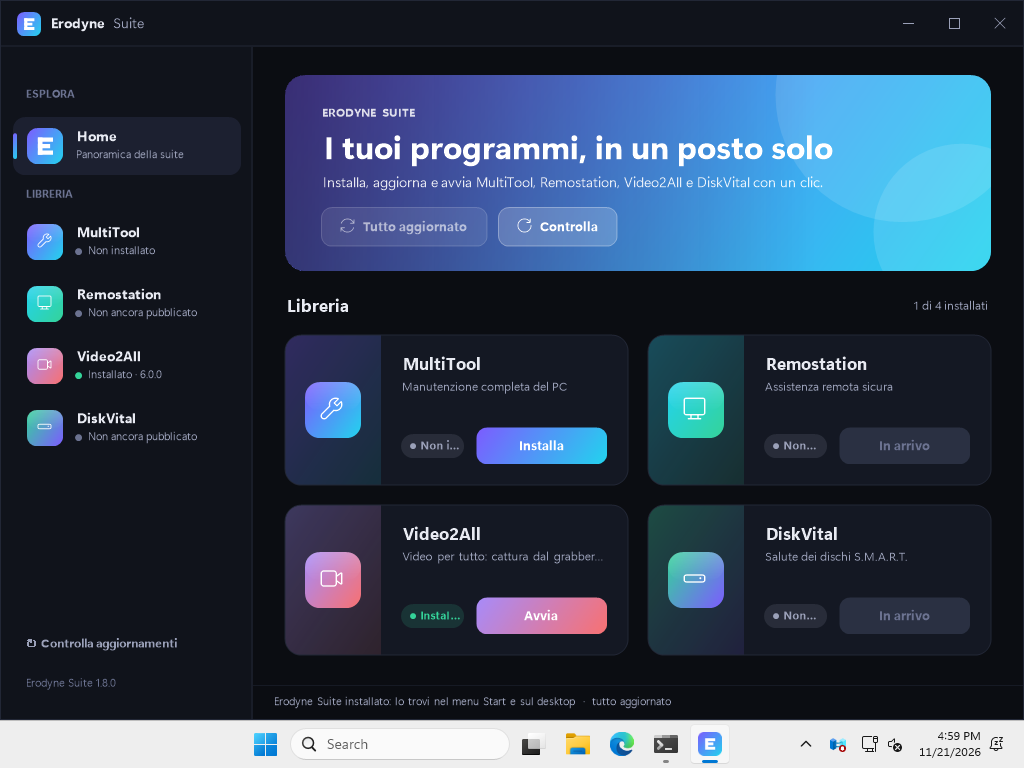
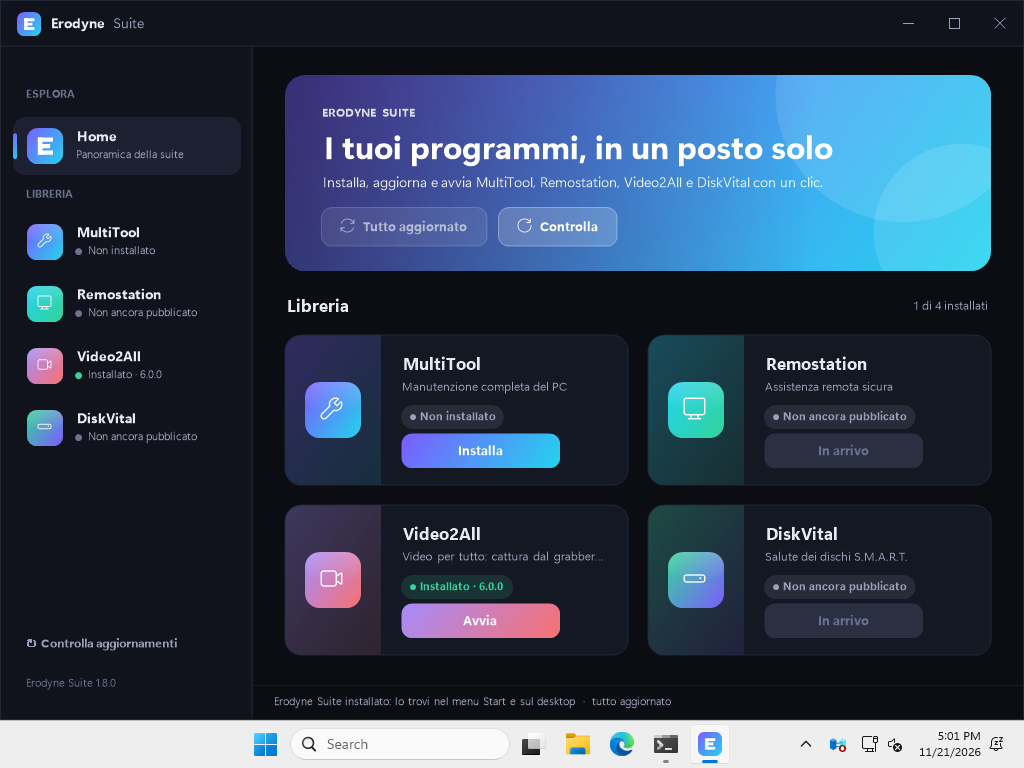
Test installazione Video2All e DiskVital

diff --git a/T.cs b/T.cs
@@ -1,45 +1,24 @@
-using System; using System.IO; using System.Linq; using System.Reflection; using System.Security.AccessControl;
+using System; using System.Linq;
 public static class T {
     public static void Main(string[] a) {
-        if (a.Length > 0 && a[0] == "acl") { Acl(a[1]); return; }
-        var s = new AppState { Def = Catalog.Apps.First(x => x.Id == "multitool") };
-        Manager.CheckOnline(s);
-        Console.WriteLine("check: ver=" + s.LatestVersion + " sig=" + (s.SigUrl != null) + " err=" + s.Error);
-        if (s.AssetUrl == null) {
-            s.LatestVersion = "2026.11.15.2"; s.AssetName = "MultiTool-Setup-2026.11.15.2.exe";
-            s.AssetUrl = "https://github.com/Erodyne/MultiTool/releases/download/v2026.11.15.2/MultiTool-Setup-2026.11.15.2.exe";
-            s.SigUrl = s.AssetUrl + ".sig";
+        foreach (var id in new[] { "video2all", "diskvital" }) {
+            var s = new AppState { Def = Catalog.Apps.First(x => x.Id == id) };
+            Manager.DetectLocal(s);
+            Manager.CheckOnline(s);
+            Console.WriteLine(id + " check: ver=" + s.LatestVersion + " asset=" + s.AssetName + " sig=" + (s.SigUrl != null) + " err=" + s.Error);
+            if (s.AssetUrl == null) {
+                if (id == "video2all") { s.LatestVersion = "6.1.0"; s.AssetName = "Video2All-Setup.exe"; s.AssetUrl = "https://github.com/Erodyne/Video2All/releases/download/v6.1.0/Video2All-Setup.exe"; }
+                else { s.LatestVersion = "1.0.0"; s.AssetName = "DiskVital-Setup-1.0.0.exe"; s.AssetUrl = "https://github.com/Erodyne/Diskvital/releases/download/v1.0.0/DiskVital-Setup-1.0.0.exe"; }
+                s.SigUrl = s.AssetUrl + ".sig"; s.ShaUrl = s.AssetUrl + ".sha256";
+            }
+            try {
+                using (var p = Manager.Fetch(s.Snapshot(), (x, t) => { })) {
+                    Console.WriteLine(id + " firma valida: " + p.Signed);
+                    int code = Manager.RunInstaller(s, p);
+                    Manager.DetectLocal(s);
+                    Console.WriteLine(id + " installer=" + code + " installato=" + s.Installed + " versione=" + s.InstalledVersion + " exe=" + s.ExePath + " disinstalla=" + (s.UninstallCmd != null));
+                }
+            } catch (Exception e) { Console.WriteLine(id + " ERRORE " + e.Message); }
         }
-        using (var p = Manager.Fetch(s.Snapshot(), (x, t) => { })) {
-            Console.WriteLine("firmato e verificato: " + p.Signed);
-            var parent = Path.GetDirectoryName(Path.GetDirectoryName(p.File));
-            try { Directory.Move(parent, parent + "_x"); Console.WriteLine("CARTELLA MADRE SPOSTATA (male)"); Directory.Move(parent + "_x", parent); } catch (Exception e) { Console.WriteLine("spostamento cartella madre bloccato: " + e.GetType().Name); }
-        }
-        var bad = s.Snapshot(); bad.LatestVersion = "2099.1.1";
-        try { using (Manager.Fetch(bad, (x, t) => { })) Console.WriteLine("VERSIONE FALSA ACCETTATA (male)"); } catch (Exception e) { Console.WriteLine("versione falsa: " + e.Message); }
-        var other = s.Snapshot(); other.Def = Catalog.Apps.First(x => x.Id == "remostation");
-        try { using (Manager.Fetch(other, (x, t) => { })) Console.WriteLine("SCAMBIO ACCETTATO (male)"); } catch (Exception e) { Console.WriteLine("installer di un altro programma: " + e.Message); }
-        var nosig = s.Snapshot(); nosig.SigUrl = null;
-        try { using (Manager.Fetch(nosig, (x, t) => { })) Console.WriteLine("SENZA FIRMA ACCETTATO (male)"); } catch (Exception e) { Console.WriteLine("senza firma: " + e.Message); }
-    }
-    static void Acl(string root) {
-        var dir = Path.Combine(root, Guid.NewGuid().ToString("N")); Directory.CreateDirectory(dir);
-        var file = Path.Combine(dir, "Setup.exe");
-        using (var w = new FileStream(file, FileMode.CreateNew, FileAccess.Write, FileShare.None)) {
-            typeof(Manager).GetMethod("SealDir", BindingFlags.NonPublic | BindingFlags.Static).Invoke(null, new object[] { dir, file });
-            w.WriteByte(65); Console.WriteLine("scrittura del download dopo la chiusura: ok");
-        }
-        Console.WriteLine("utente: " + System.Security.Principal.WindowsIdentity.GetCurrent().Name);
-        Try("aggiungere version.dll", () => File.WriteAllText(Path.Combine(dir, "version.dll"), "x"));
-        Try("creare sottocartella", () => Directory.CreateDirectory(Path.Combine(dir, "sub")));
-        Try("modificare l'installer", () => File.AppendAllText(file, "x"));
-        Try("cambiare i permessi", () => { var sec = Directory.GetAccessControl(dir); sec.AddAccessRule(new FileSystemAccessRule("Everyone", FileSystemRights.FullControl, AccessControlType.Allow)); Directory.SetAccessControl(dir, sec); });
-        Try("prendere la proprietà", () => { var sec = Directory.GetAccessControl(dir); sec.SetOwner(System.Security.Principal.WindowsIdentity.GetCurrent().User); Directory.SetAccessControl(dir, sec); });
-        Try("rinominare l'installer", () => File.Move(file, file + ".old"));
-        Try("cancellare (pulizia)", () => { File.Delete(file); Directory.Delete(dir); }, true);
-    }
-    static void Try(string what, Action a, bool expectOk = false) {
-        try { a(); Console.WriteLine(what + ": RIUSCITO" + (expectOk ? " (giusto)" : " (MALE)")); }
-        catch (Exception e) { Console.WriteLine(what + ": negato" + (expectOk ? " (MALE)" : "") + " [" + e.GetType().Name + "]"); }
     }
 }
